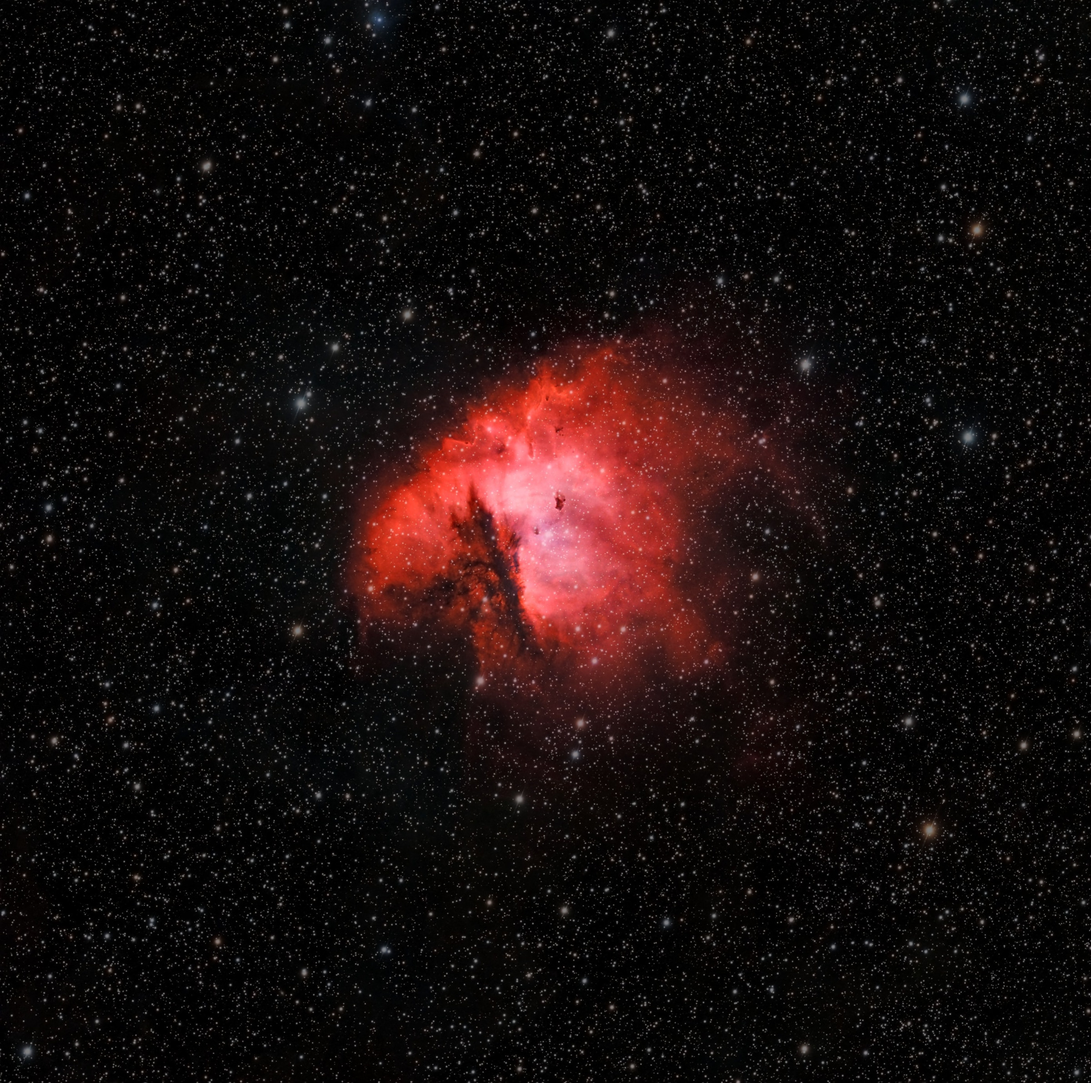
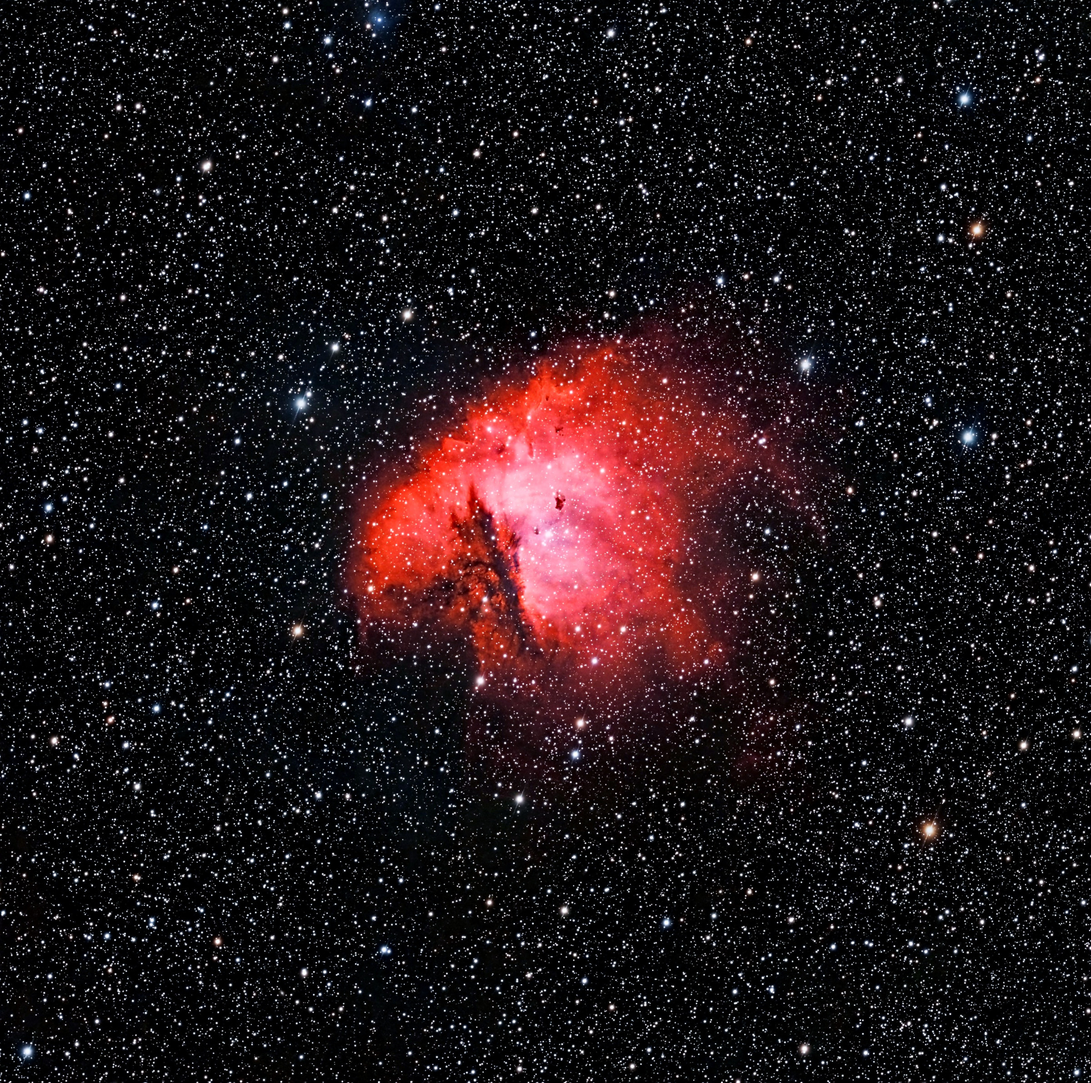
NGC 281 and California: Flame-style finish

diff --git a/california-2024/index.html b/california-2024/index.html
@@ -7,7 +7,7 @@
 <meta name="description" content="A wall of hydrogen glowing red, ionized by the hot runaway star Xi Persei (Menkib) nearby. The whole nebula stretches about 2.5° across the sky, five full Moons end to end, so this frame shows its middle.">
 <meta property="og:title" content="NGC 1499 · California Nebula · Night Sky">
 <meta property="og:description" content="A wall of hydrogen glowing red, ionized by the hot runaway star Xi Persei (Menkib) nearby. The whole nebula stretches about 2.5° across the sky, five full Moons end to end, so this frame shows its middle.">
-<meta property="og:image" content="https://etotman.github.io/astro-gallery/img/california-2024/display.jpg?v=da852658"><meta name="twitter:card" content="summary_large_image">
+<meta property="og:image" content="https://etotman.github.io/astro-gallery/img/california-2024/display.jpg?v=3902d42e"><meta name="twitter:card" content="summary_large_image">
 <meta name="theme-color" content="#07080b">
 <link rel="icon" href="../assets/icon.svg" type="image/svg+xml">
 <link rel="stylesheet" href="../assets/style.css?v=bd09f262">
@@ -18,8 +18,8 @@
 <div class="layout">
 <div class="col">
 <figure class="hero">
-  <button class="zoom" type="button" data-full="../img/california-2024/full.jpg?v=a50e1461" data-w="2752" data-h="2769" aria-label="Open full resolution">
-    <img src="../img/california-2024/display.jpg?v=da852658" width="2385" height="2400" alt="NGC 1499 · California Nebula">
+  <button class="zoom" type="button" data-full="../img/california-2024/full.jpg?v=047be802" data-w="2752" data-h="2769" aria-label="Open full resolution">
+    <img src="../img/california-2024/display.jpg?v=3902d42e" width="2385" height="2400" alt="NGC 1499 · California Nebula">
   </button>
   <figcaption>Click the image for full resolution · 2752 × 2769 px</figcaption>
 </figure>
@@ -41,8 +41,8 @@
 </tr></tbody>
   </table></div>
 </section>
-  <section class="block"><h2>Processing</h2><p>Stacked 2026-11 from the raw ASIAIR frames: calibrated with a master dark and flat, debayered, every sub plate-solved (ASTAP) for registration, 3-sigma clipped integration; then GraXpert, colour calibration, BlurXTerminator, NoiseXTerminator, stretch, StarXTerminator, saturation and local contrast, stars reduced and screened back.</p></section>
-  <p class="dl"><a href="../img/california-2024/full.jpg?v=a50e1461" download="california-2024.jpg">Download full resolution (1.1 MB)</a></p>
+  <section class="block"><h2>Processing</h2><p>Stacked 2026-11 from the raw ASIAIR frames: calibrated with a master dark and flat, debayered, every sub plate-solved (ASTAP) for registration, 3-sigma clipped integration; then GraXpert, colour calibration, BlurXTerminator, NoiseXTerminator, stretch, StarXTerminator, saturation and local contrast, stars screened back. Finished with the colour of the Flame + Horsehead edit: cooler sky, lifted midtones, more clarity and saturation.</p></section>
+  <p class="dl"><a href="../img/california-2024/full.jpg?v=047be802" download="california-2024.jpg">Download full resolution (1.6 MB)</a></p>
 </main>
 </div>
 <aside class="glance">

diff --git a/ngc281-2024/index.html b/ngc281-2024/index.html
@@ -7,7 +7,7 @@
 <meta name="description" content="360 dual-band subs over two October nights: twelve hours where the 2021 version had one evening. The dark Bok globules and the dust lane that forms the Pacman&#x27;s mouth stand out against the glowing hydrogen.">
 <meta property="og:title" content="NGC 281 · Pacman Nebula (2024, 12 h) · Night Sky">
 <meta property="og:description" content="360 dual-band subs over two October nights: twelve hours where the 2021 version had one evening. The dark Bok globules and the dust lane that forms the Pacman&#x27;s mouth stand out against the glowing hydrogen.">
-<meta property="og:image" content="https://etotman.github.io/astro-gallery/img/ngc281-2024/display.jpg?v=30d5e199"><meta name="twitter:card" content="summary_large_image">
+<meta property="og:image" content="https://etotman.github.io/astro-gallery/img/ngc281-2024/display.jpg?v=83e918b7"><meta name="twitter:card" content="summary_large_image">
 <meta name="theme-color" content="#07080b">
 <link rel="icon" href="../assets/icon.svg" type="image/svg+xml">
 <link rel="stylesheet" href="../assets/style.css?v=bd09f262">
@@ -18,8 +18,8 @@
 <div class="layout">
 <div class="col">
 <figure class="hero">
-  <button class="zoom" type="button" data-full="../img/ngc281-2024/full.jpg?v=74f24e30" data-w="2784" data-h="2762" aria-label="Open full resolution">
-    <img src="../img/ngc281-2024/display.jpg?v=30d5e199" width="2400" height="2381" alt="NGC 281 · Pacman Nebula (2024, 12 h)">
+  <button class="zoom" type="button" data-full="../img/ngc281-2024/full.jpg?v=bfcec0e4" data-w="2784" data-h="2762" aria-label="Open full resolution">
+    <img src="../img/ngc281-2024/display.jpg?v=83e918b7" width="2400" height="2381" alt="NGC 281 · Pacman Nebula (2024, 12 h)">
   </button>
   <figcaption>Click the image for full resolution · 2784 × 2762 px</figcaption>
 </figure>
@@ -41,8 +41,8 @@
 </tr></tbody>
   </table></div>
 </section>
-  <section class="block"><h2>Processing</h2><p>Stacked 2026-11 from the raw ASIAIR frames: calibrated with a master dark and flat, debayered, every sub plate-solved (ASTAP) for registration, 3-sigma clipped integration; then GraXpert, colour calibration, BlurXTerminator, NoiseXTerminator, stretch, StarXTerminator, saturation and local contrast, stars reduced and screened back.</p></section>
-  <p class="dl"><a href="../img/ngc281-2024/full.jpg?v=74f24e30" download="ngc281-2024.jpg">Download full resolution (1.9 MB)</a></p>
+  <section class="block"><h2>Processing</h2><p>Stacked 2026-11 from the raw ASIAIR frames: calibrated with a master dark and flat, debayered, every sub plate-solved (ASTAP) for registration, 3-sigma clipped integration; then GraXpert, colour calibration, BlurXTerminator, NoiseXTerminator, stretch, StarXTerminator, saturation and local contrast, stars screened back. Finished with the colour of the Flame + Horsehead edit: cooler sky, lifted midtones, more clarity and saturation.</p></section>
+  <p class="dl"><a href="../img/ngc281-2024/full.jpg?v=bfcec0e4" download="ngc281-2024.jpg">Download full resolution (2.8 MB)</a></p>
 </main>
 </div>
 <aside class="glance">

diff --git a/index.html b/index.html
@@ -199,16 +199,16 @@
   <img src="img/wizard/thumb.jpg?v=6e801459" width="900" height="806" alt="Sh2-142 · Wizard Nebula" loading="lazy" decoding="async">
   <span class="cap"><strong>Sh2-142 · Wizard Nebula</strong><em>8.8 h · RASA8</em></span>
 </a>
-<a class="tile" href="california-2024/" style="--r:0.9933;background:#1c1a15">
-  <img src="img/california-2024/thumb.jpg?v=f56de806" width="894" height="900" alt="NGC 1499 · California Nebula" loading="lazy" decoding="async">
+<a class="tile" href="california-2024/" style="--r:0.9933;background:#1c1c1c">
+  <img src="img/california-2024/thumb.jpg?v=ba21c22a" width="894" height="900" alt="NGC 1499 · California Nebula" loading="lazy" decoding="async">
   <span class="cap"><strong>NGC 1499 · California Nebula</strong><em>6.4 h · RASA8</em></span>
 </a>
 <a class="tile" href="wizard-2024/" style="--r:1.0000;background:#1c1c1c">
   <img src="img/wizard-2024/thumb.jpg?v=da7922d9" width="900" height="900" alt="Sh2-142 · Wizard Nebula (2024, 10.5 h)" loading="lazy" decoding="async">
   <span class="cap"><strong>Sh2-142 · Wizard Nebula (2024, 10.5 h)</strong><em>10.5 h · RASA8</em></span>
 </a>
-<a class="tile" href="ngc281-2024/" style="--r:1.0078;background:#180e0d">
-  <img src="img/ngc281-2024/thumb.jpg?v=9ba4627d" width="900" height="893" alt="NGC 281 · Pacman Nebula (2024, 12 h)" loading="lazy" decoding="async">
+<a class="tile" href="ngc281-2024/" style="--r:1.0078;background:#1c1518">
+  <img src="img/ngc281-2024/thumb.jpg?v=22bece9c" width="900" height="893" alt="NGC 281 · Pacman Nebula (2024, 12 h)" loading="lazy" decoding="async">
   <span class="cap"><strong>NGC 281 · Pacman Nebula (2024, 12 h)</strong><em>12.0 h · RASA8</em></span>
 </a>
 <a class="tile" href="ic5070/" style="--r:1.0000;background:#1c1c1c">
